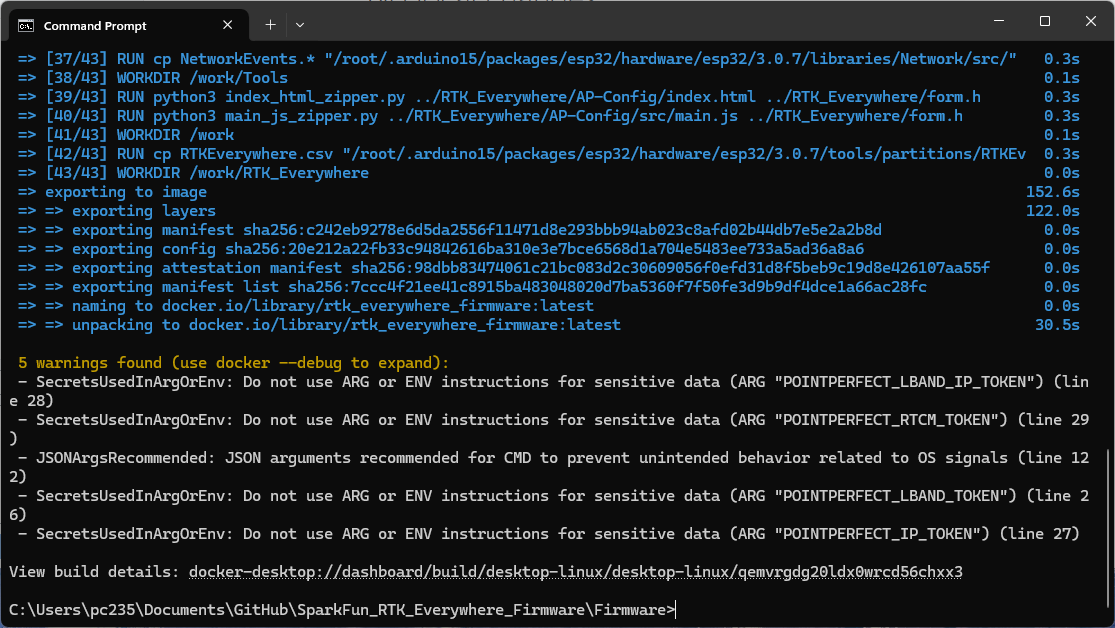
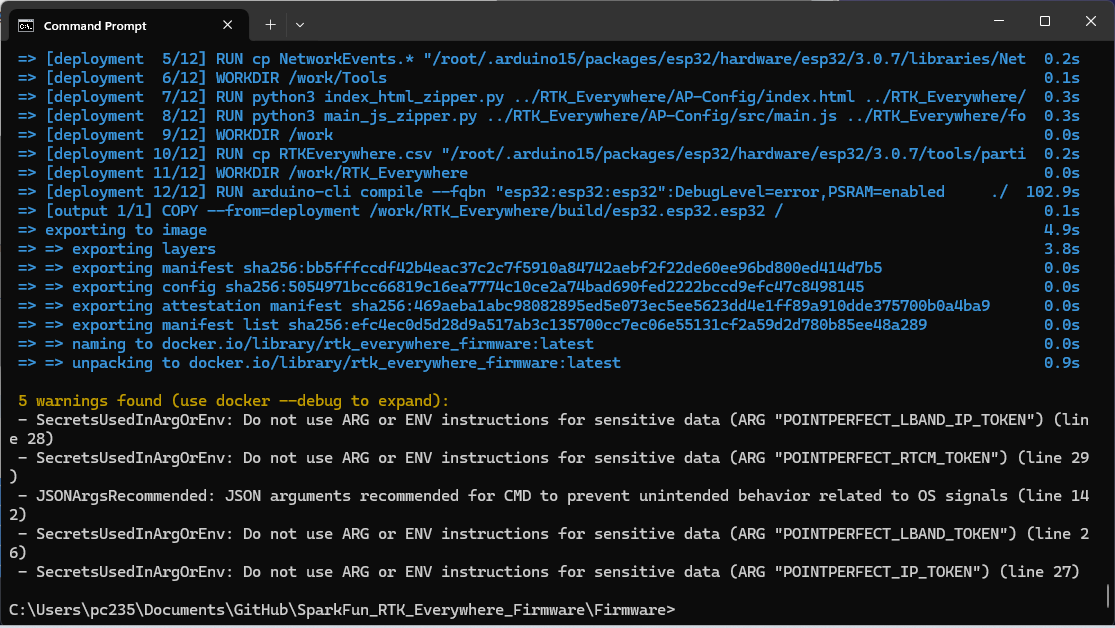
Update Dockerfile and docs

diff --git a/docs/firmware_compile.md b/docs/firmware_compile.md
@@ -22,19 +22,6 @@ Installing the correct version of the ESP32 core and of each required Arduino li
 
 Here is a step-by-step guide for how to install Docker and compile the firmware from scratch:
 
-### Install Docker Desktop
-
-* Head to [Docker](https://www.docker.com/) and create an account. A free "Personal" account will cover occasional compilations of the firmware
-* Download and install [Docker Desktop](https://docs.docker.com/get-started/get-docker/) - there are versions for Mac, Windows and Linux. You may need to restart to complete the installation.
-* Run the Desktop and sign in
-* On Windows, you may see an error saying "**WSL needs updating** Your version of Windows Subsystem for Linux (WSL) is too old". If you do:
-    * Open a command prompt
-	* Type `wsl --update` to update WSL. At the time of writing, this installs Windows Subsystem for Linux 2.6.1
-	* Restart the Docker Desktop
-* If you are using Docker for the first time, the "What is a container?" and "How do I run a container?" demos are useful
-    * On Windows, you may need to give Docker Desktop permission to access to your Network
-	* You can Stop the container and Delete it when you are done
-
 ### Clone, fork or download the RTK Everywhere Firmware repo
 
 To build the RTK Everywhere Firmware, you obviously need a copy of the source code.
@@ -67,9 +54,24 @@ For the real Wild West experience, you can also download a copy of the `release_
 
 [![Download ZIP - release candidate](./img/CompileSource/Download_Zip.png)](https://github.com/sparkfun/SparkFun_RTK_Everywhere_Firmware/archive/refs/heads/release_candidate.zip "Download ZIP (release_candidate branch)")
 
+### Install Docker Desktop
+
+* Head to [Docker](https://www.docker.com/) and create an account. A free "Personal" account will cover occasional compilations of the firmware
+* Download and install [Docker Desktop](https://docs.docker.com/get-started/get-docker/) - there are versions for Mac, Windows and Linux. You may need to restart to complete the installation.
+* Run the Desktop and sign in
+* On Windows, you may see an error saying "**WSL needs updating** Your version of Windows Subsystem for Linux (WSL) is too old". If you do:
+    * Open a command prompt
+	* Type `wsl --update` to update WSL. At the time of writing, this installs Windows Subsystem for Linux 2.6.1
+	* Restart the Docker Desktop
+* If you are using Docker for the first time, the "What is a container?" and "How do I run a container?" demos are useful
+    * On Windows, you may want to give Docker Desktop permission to access to your Network, so it can access (e.g.) HTML ports
+	* You can Stop the container and Delete it when you are done
+* You may want to prevent Docker from running when your machine starts up
+    * Uncheck "Start Docker Desktop when you sign in to your computer" in the Desktop settings
+
 ### Running the Dockerfile to create an Image
 
-* Make sure you have Docker Desktop running
+* **Make sure you have Docker Desktop running.** You don't need to be logged in, but it needs to be running.
 * Open a Command Prompt and `cd` into the SparkFun_RTK_Everywhere_Firmware folder
 * Check you are in the right place. Type `dir` and hit enter. You should see the following files and folders:
 
@@ -117,39 +119,51 @@ docker build -t rtk_everywhere_firmware --progress=plain .
 docker build -t rtk_everywhere_firmware --progress=plain --no-cache .
 ```
 
-Building the Image is slow, taking several minutes. But you should only need to do it once - unless you make any changes to the Dockerfile.
+Building the full Image from scratch is slow, taking several minutes. But you should only need to do it once - unless you make any changes to the Dockerfile.
 
-### Compile the firmware by running the Image
+* When you make changes to the source code and want to recompile, use:
 
-In Docker Desktop, in the Images tab, you should now be able to see an Image named `rtk_everywhere_firmware`. We now need to Run that image to compile the firmware. Click the triangular Run icon under Actions:
+```
+docker build -t rtk_everywhere_firmware --no-cache-filter deployment .
+```
+
+This uses the cache for the `upstream` stage and avoids recreating the full ubuntu machine. But it ignores the cache for the `deployment` stage, ensuring the code is recompiled.
+
+### Access the firmware by running the Image
+
+In Docker Desktop, in the Images tab, you should now be able to see an Image named `rtk_everywhere_firmware`. We now need to Run that Image to access the firmware binary. Click the triangular Run icon under Actions:
 
 ![Docker image ready to run](./img/CompileSource/Docker_Image.png)
 
-Running the Image will create a Container for the arduino-cli code compilation. The Container name is random, because we didn't define one in the **Optional settings**. It is running the final line of the Dockerfile `CMD arduino-cli compile ...`. Let it run. As the compilation progresses, you will see messages appear in the Logs tab. When the compilation is complete, the Container will stop and you should see:
+Running the Image will create a Container, through which we can access the output of the arduino-cli code compilation.
 
-![Container code compilation is complete](./img/CompileSource/Container_compilation_complete.png)
+By default, the Container name is random. To avoid this, we define one in the **Optional settings** :
 
-You can recompile your code at any time by running the image again. (You don't need to recreate the image each time - unless you've changed the Dockerfile.)
+![Docker Container - named rtk_everywhere](./img/CompileSource/Docker_Container.png)
 
-Make a note of the container name. We will need it to extract the firmware binary from the container. In the above screenshot, the container is called **reverent_jackson**
+Run the Container and you should see:
 
-In the Command Prompt, type the following (replace **reverent_jackson** with your container name):
+![Container is complete](./img/CompileSource/Container_compilation_complete.png)
+
+In the Command Prompt, type the following :
 
 ```
-docker cp reverent_jackson:/work/RTK_Everywhere/build/esp32.esp32.esp32/RTK_Everywhere.ino.bin .
+docker cp rtk_everywhere:/RTK_Everywhere.ino.bin .
 ```
 
 Hey presto! A file called `RTK_Everywhere.ino.bin` appears in the current directory. That's the firmware binary we are going to upload to the ESP32.
 
+1[Firmware binary](./img/CompileSource/Firmware_binary.png)
+
 If you need the `.elf` file so you can debug code crashes with me-no-dev's [ESP ExceptionDecoder](https://github.com/me-no-dev/EspExceptionDecoder):
 
 ```
-docker cp reverent_jackson:/work/RTK_Everywhere/build/esp32.esp32.esp32/RTK_Everywhere.ino.elf .
+docker cp rtk_everywhere:/RTK_Everywhere.ino.elf .
 ```
 
 If you want the files to appear in a more convenient directory, replace the single `.` with a folder path.
 
-The Container compilation is fast, taking around 2 minutes 20 seconds for a full compile. Running the same `arduino-cli compile` command directly in a Command Prompt takes around 3 minutes.
+Delete the `rtk_everywhere` container afterwardds, to save disk space, and so you can reuse the same container name next time.
 
 ## Compiling on Windows (Deprecated)
 
